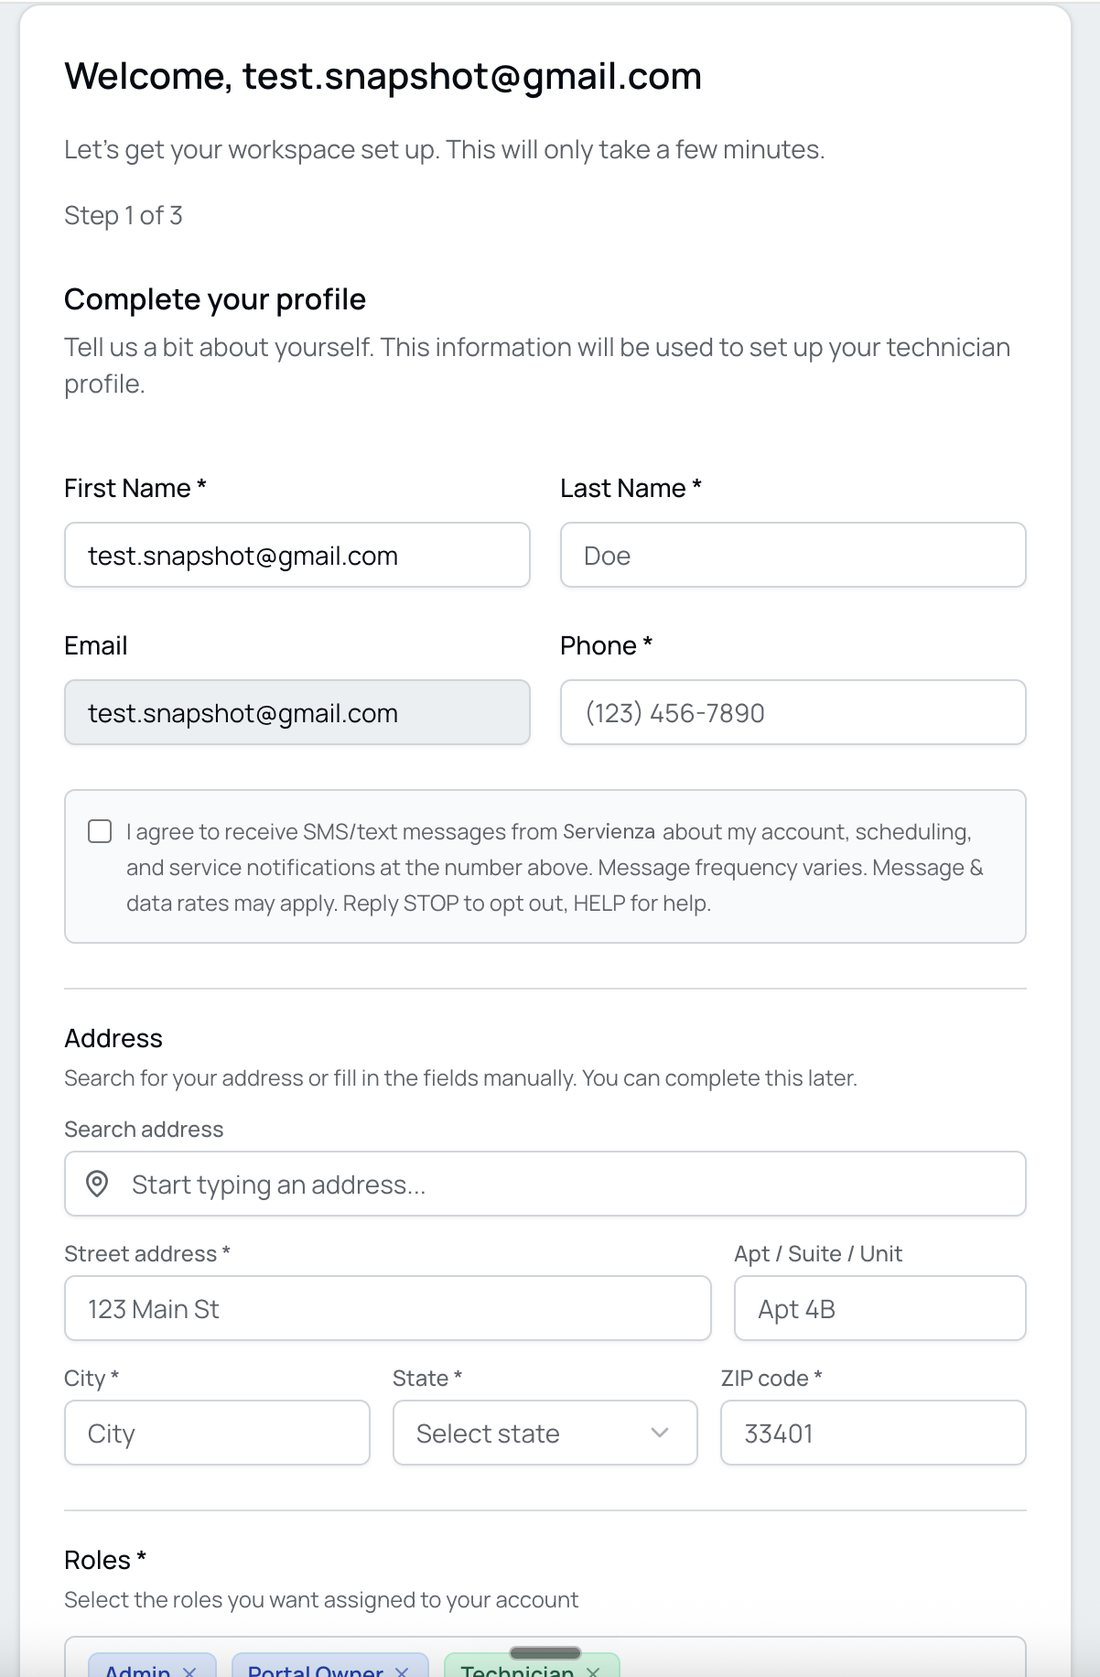
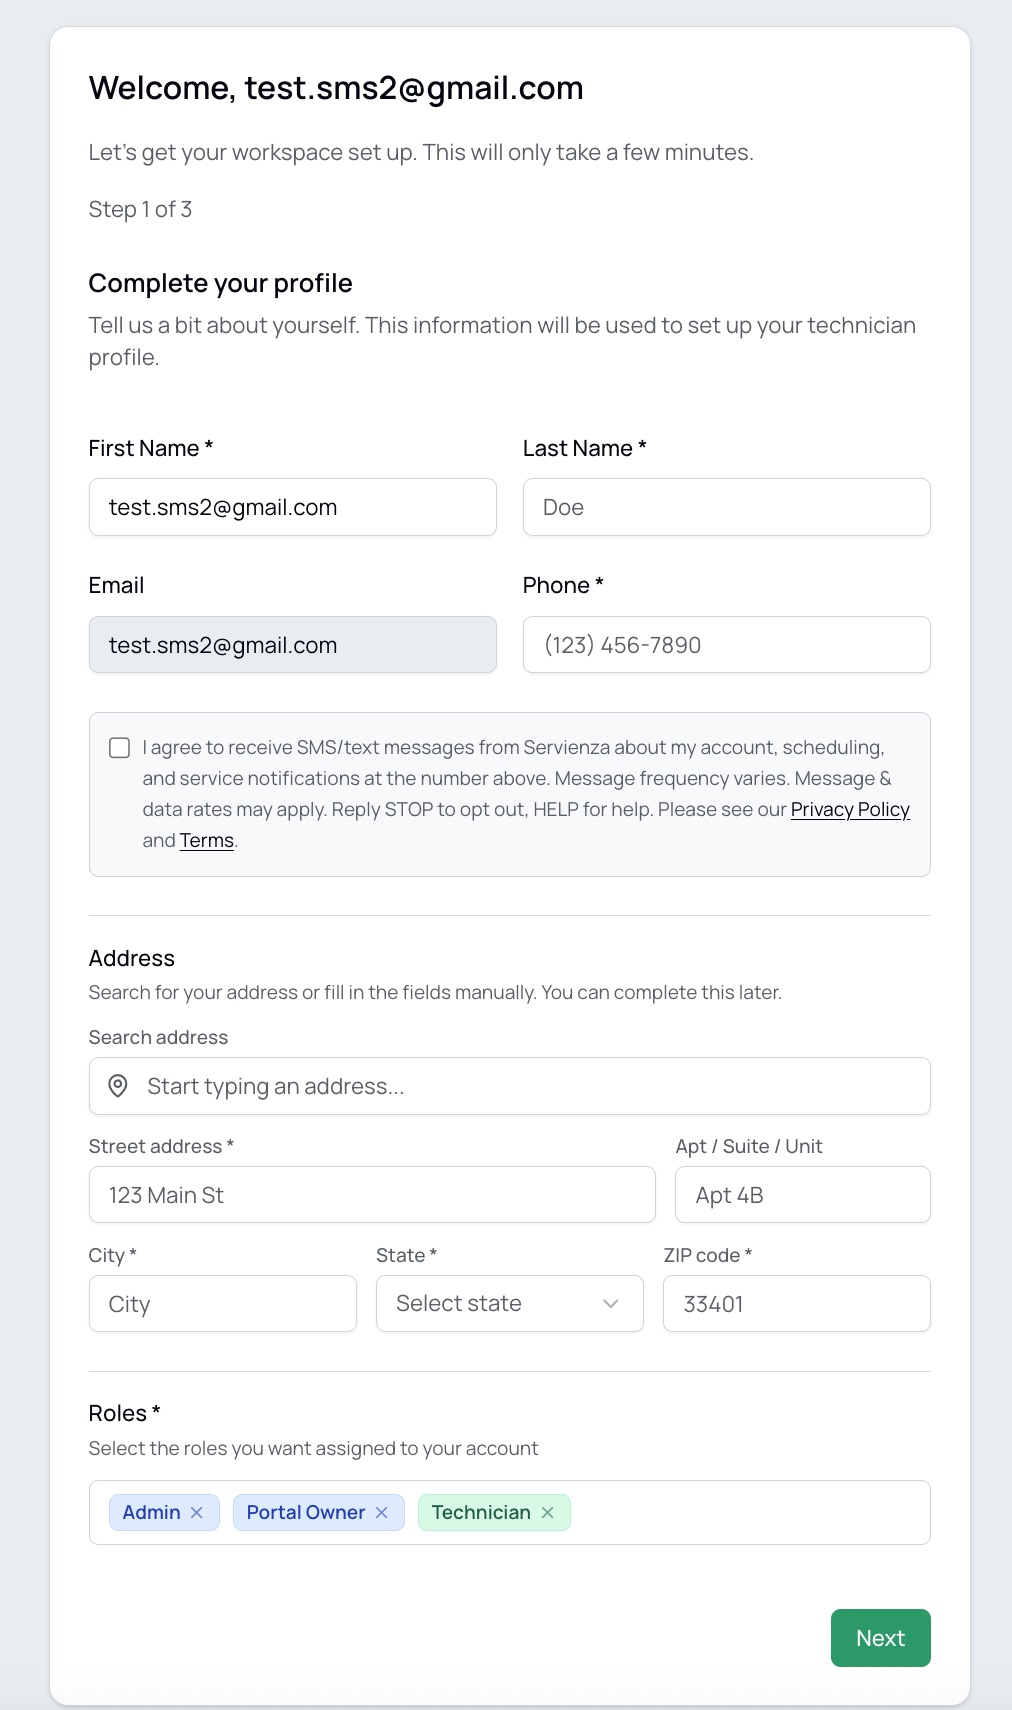
fixed consent text on sms-opt-in screen

diff --git a/src/app/sms-opt-in/page.tsx b/src/app/sms-opt-in/page.tsx
@@ -8,7 +8,7 @@ export const metadata: Metadata = {
 }
 
 // Last reviewed/updated — keep in sync when the consent flow changes.
-const LAST_UPDATED = 'June 25, 2026'
+const LAST_UPDATED = 'August 1, 2026'
 
 // Business contact details shown to carriers/Twilio reviewers.
 const SUPPORT_EMAIL = 'at@servienza.com'
@@ -135,16 +135,26 @@ export default function SmsOptInPage() {
             <strong>Account / technician sign-up</strong> — when a user creates their own
             account, they may opt in to account, scheduling, and service notifications at
             their own number. The consent checkbox is{' '}
-            <strong>unchecked by default</strong> and includes message frequency, rate
-            disclosures, and STOP/HELP instructions:
+            <strong>unchecked by default</strong> and includes the brand name, message
+            frequency, rate disclosures, STOP/HELP instructions, and links to our Privacy
+            Policy and Terms:
           </p>
 
-          {/* Exact consent language quoted */}
+          {/* Exact consent language quoted — Privacy Policy / Terms render as live links in-app */}
           <div className="space-y-3">
             <blockquote className="rounded-lg border-l-4 border-brand-400 bg-white p-4 text-sm italic text-slate-700">
-              “I agree to receive SMS/text messages about my account, scheduling, and
-              service notifications at the number above. Message frequency varies. Message
-              &amp; data rates may apply. Reply STOP to opt out, HELP for help.”
+              “I agree to receive SMS/text messages from {BUSINESS_NAME} about my account,
+              scheduling, and service notifications at the number above. Message frequency
+              varies. Message &amp; data rates may apply. Reply STOP to opt out, HELP for
+              help. Please see our{' '}
+              <a className="not-italic text-brand-700 underline" href="/privacy">
+                Privacy Policy
+              </a>{' '}
+              and{' '}
+              <a className="not-italic text-brand-700 underline" href="/terms">
+                Terms
+              </a>
+              .”
             </blockquote>
           </div>
         </Section>
@@ -159,8 +169,9 @@ export default function SmsOptInPage() {
           <ol className="list-decimal space-y-1 pl-5">
             <li>Open the {BUSINESS_NAME} sign-up page and enter account details and mobile number.</li>
             <li>
-              An <strong>unchecked</strong> SMS consent checkbox with full disclosure
-              appears beneath the phone field.
+              An <strong>unchecked</strong> SMS consent checkbox with full disclosure —
+              including the {BUSINESS_NAME} brand name and links to the Privacy Policy and
+              Terms — appears beneath the phone field.
             </li>
             <li>The user ticks it to opt in; leaving it unchecked still allows sign-up with no SMS.</li>
           </ol>
@@ -175,7 +186,7 @@ export default function SmsOptInPage() {
             <figure className="mx-auto max-w-xl">
               <img
                 src="/legal/sms-optin-signup.jpg"
-                alt="Account sign-up form showing the unchecked SMS consent checkbox with disclosure text"
+                alt="Account sign-up form showing the unchecked SMS consent checkbox with disclosure text, brand name, and Privacy Policy and Terms links"
                 className="w-full rounded-xl border border-slate-200 shadow-sm"
                 loading="lazy"
               />
